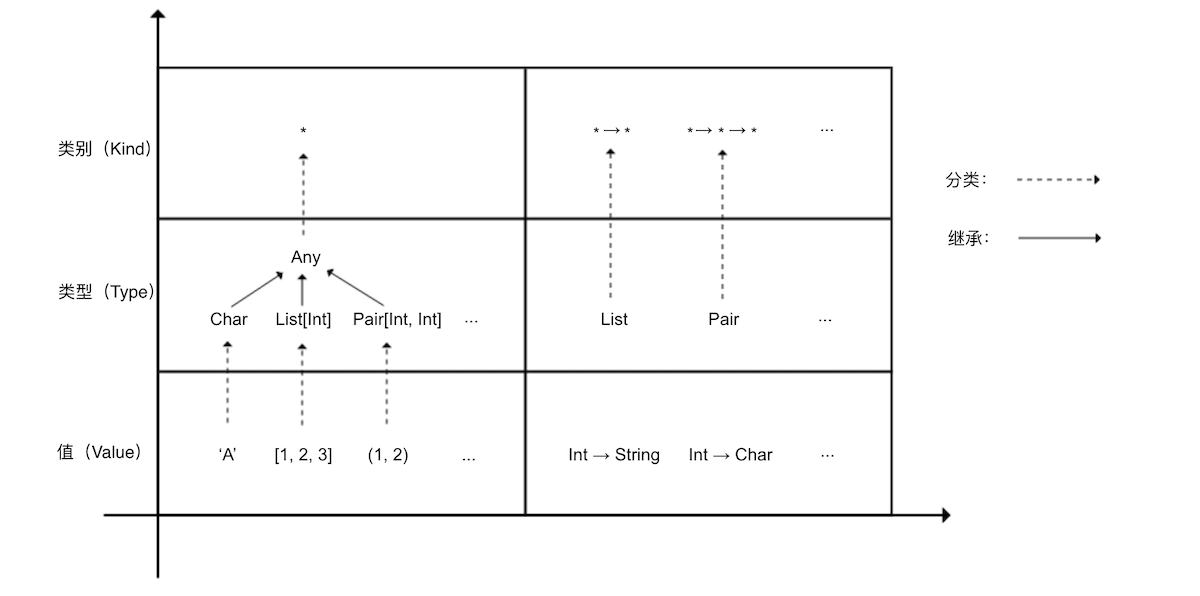
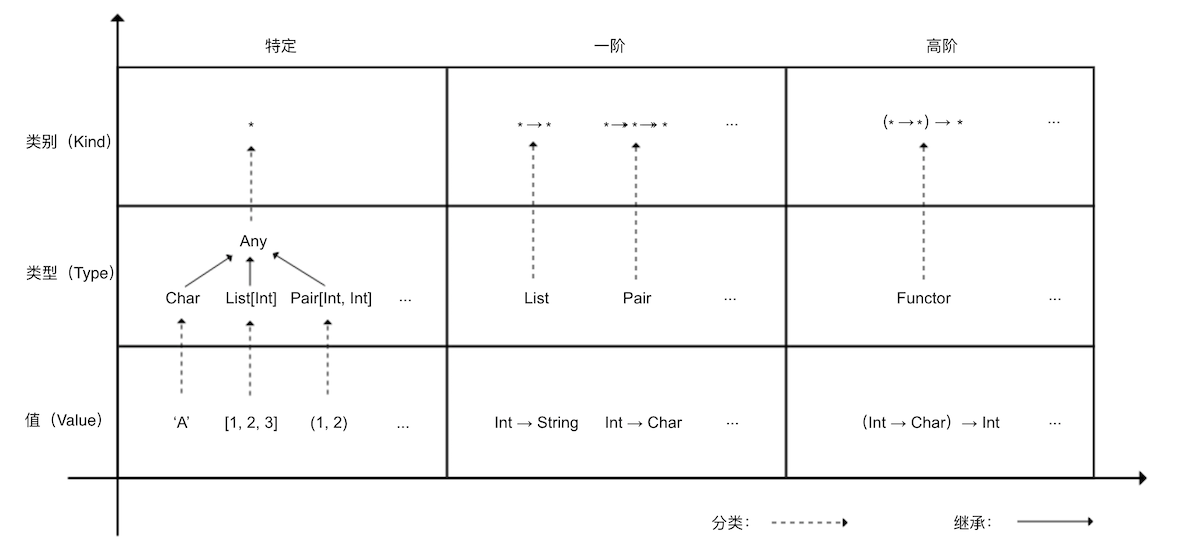
hkt

diff --git a/6_type/4_higher_kinded_type.md b/6_type/4_higher_kinded_type.md
@@ -25,3 +25,7 @@ String]]`等。
 ![high_order](/imgs/high_order.png)
 
 从左下角的具体值出发，沿纵轴向上，先抽象出类型，再进一步抽象出类别；沿横轴向右，则是函数（或高阶类型）阶数逐步提高。
+
+Java支持泛型，也就是图中的一阶类型，但不支持进一步抽象，像`class MyList<C<T>>{}`是无法通过类型检查的。凭借Scala更强大的类型系统，可以写出更加抽象、更高复用性的代码。对于相同结构的数据，常常有相同的操作模式，我们希望能把它标准化，哪怕具体类型完全不同，但类型结构只要一样，就能使用这种标准化模式。典型的场景如：对于类型`A`，装在某个容器`F[A]`中，当存在函数`f: A => B`时，总能把`F[A]`变成`F[B]`。(后面，我们将了解到这个可以“变换内容”的容器正是`Functor`。)这里的`A`可以是任意任意，函数`f`也可以是任意的，但操作的对象都有相同结构：`* -> *`。这在Java中是无法实现的，因为一阶的泛型只能描述，或者说，规定类型的行为，并不存在“超级interface”来规定泛型本身的行为。
+
+至此，你也许猜到了，类型的再抽象，甚至整个类型章节和函数章节，都是在为接下来的Functor和其它"type class"们做铺垫。它们可是函数式编程领域的明珠。
